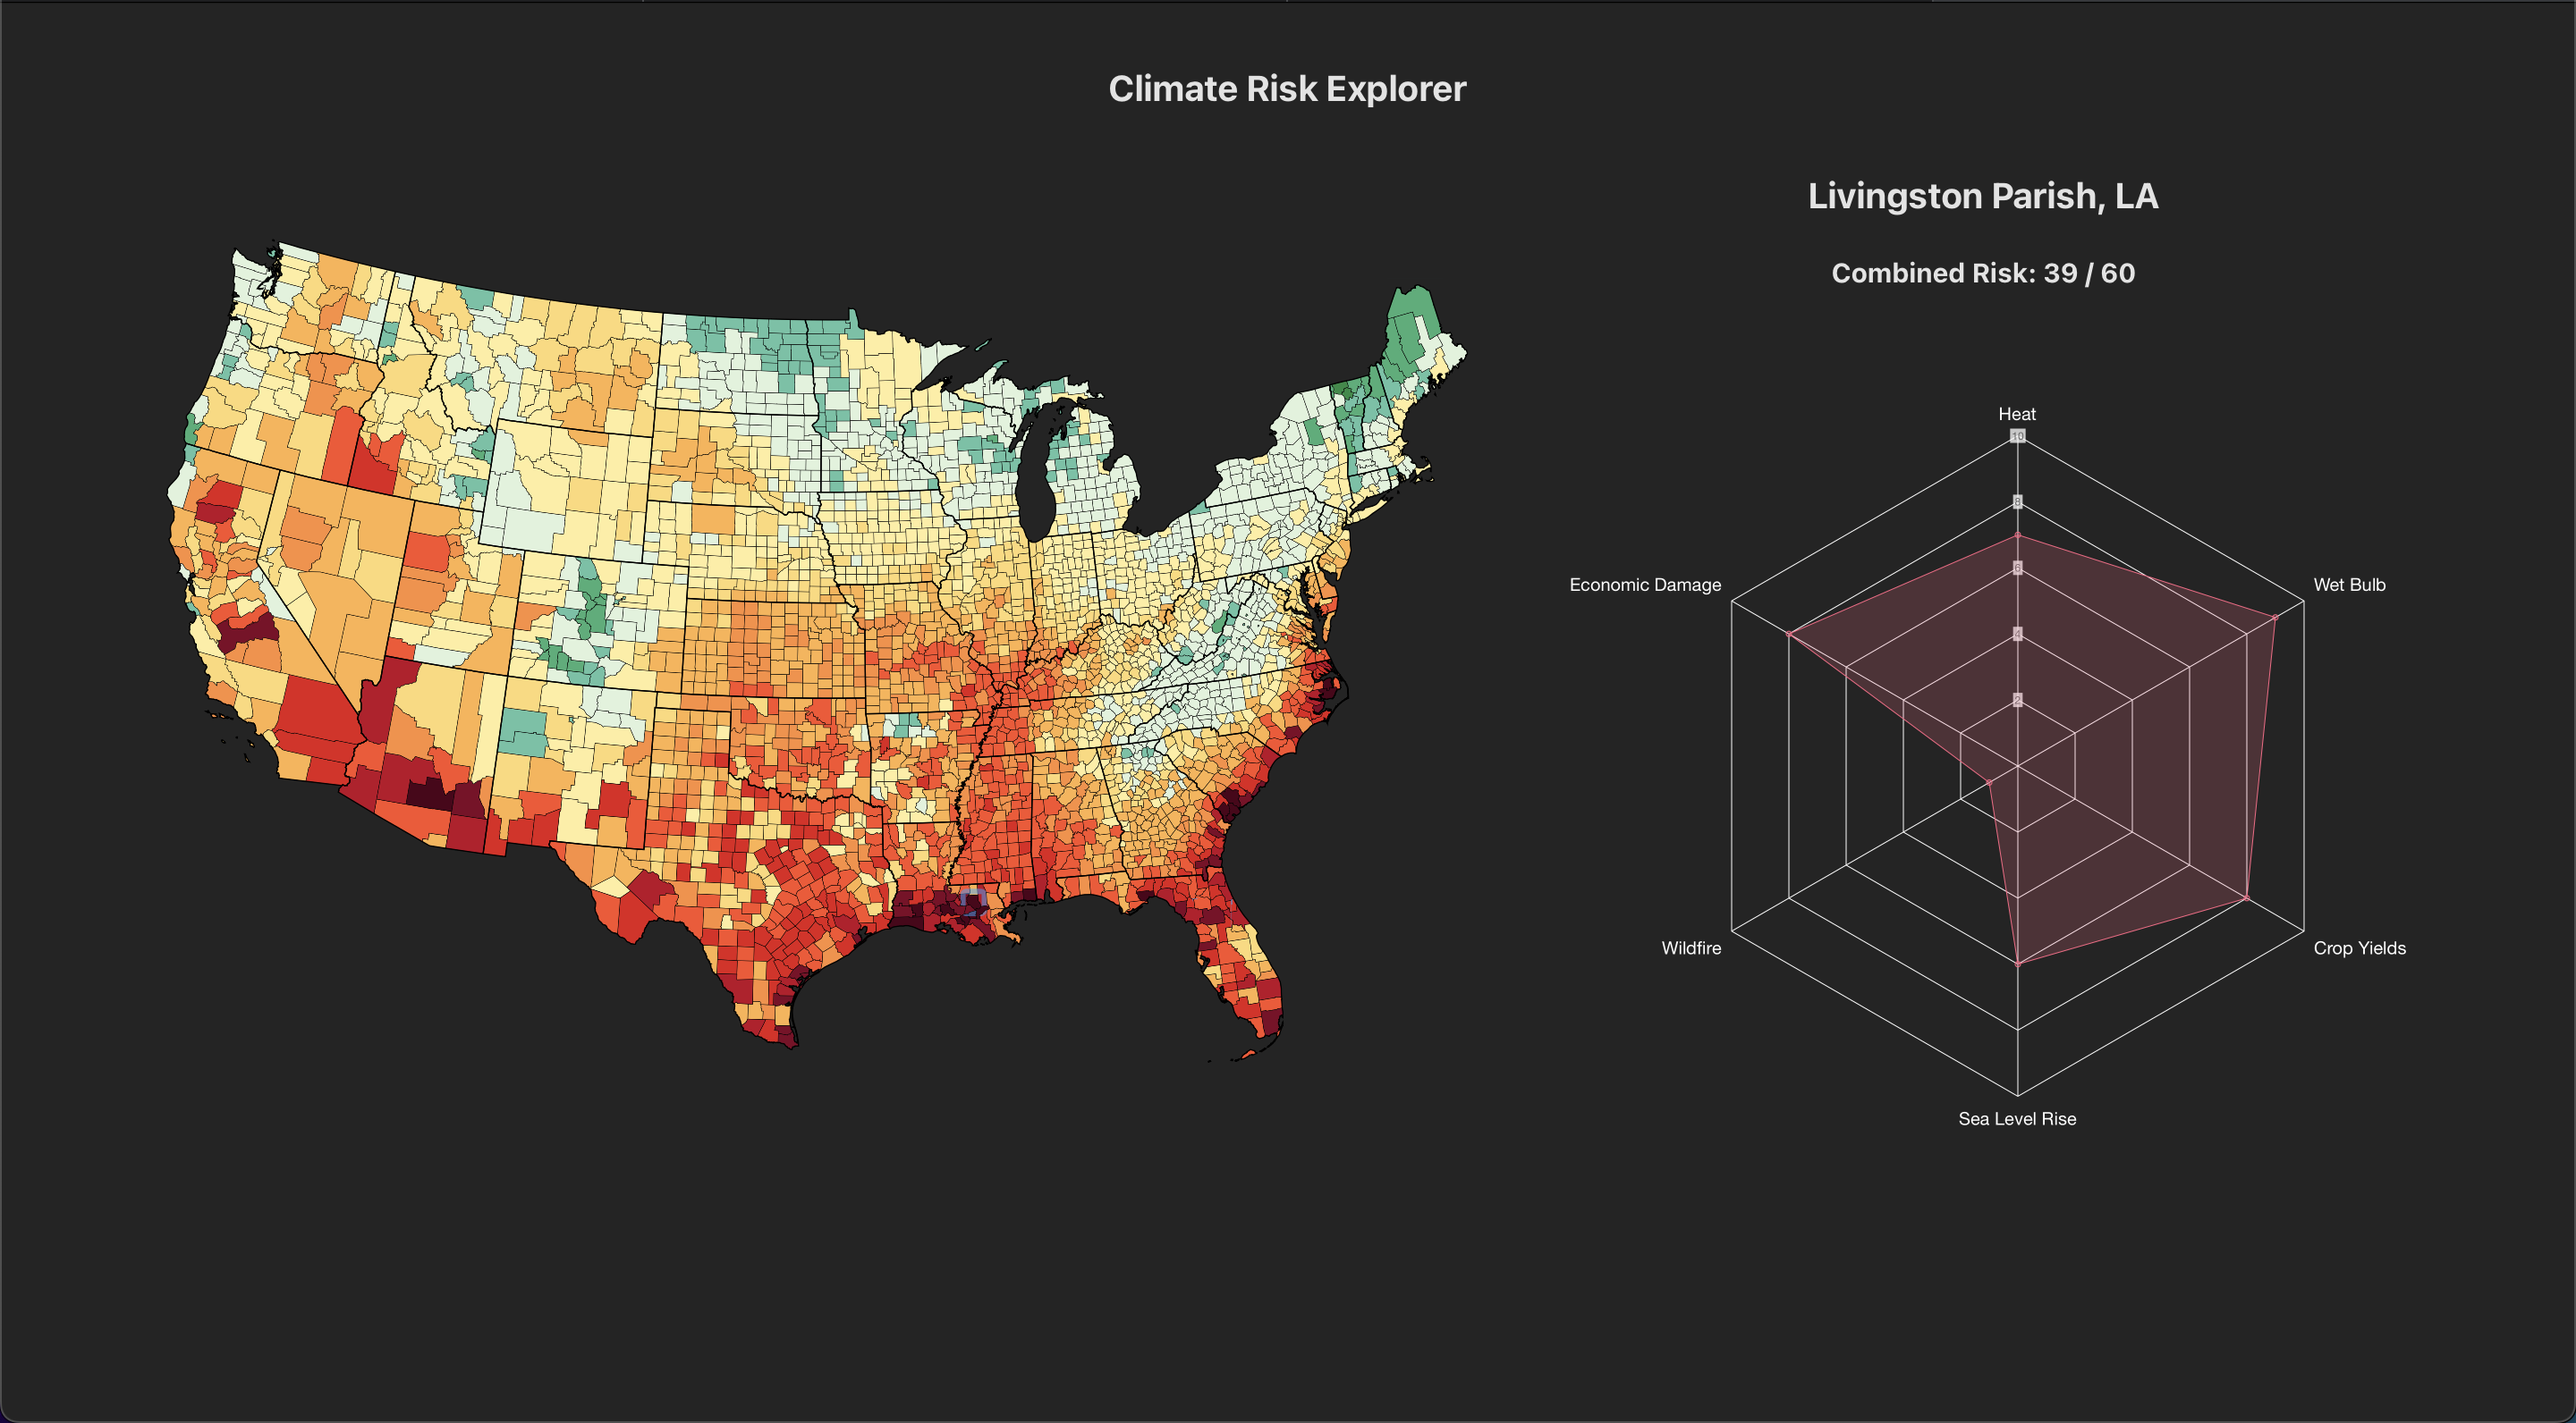
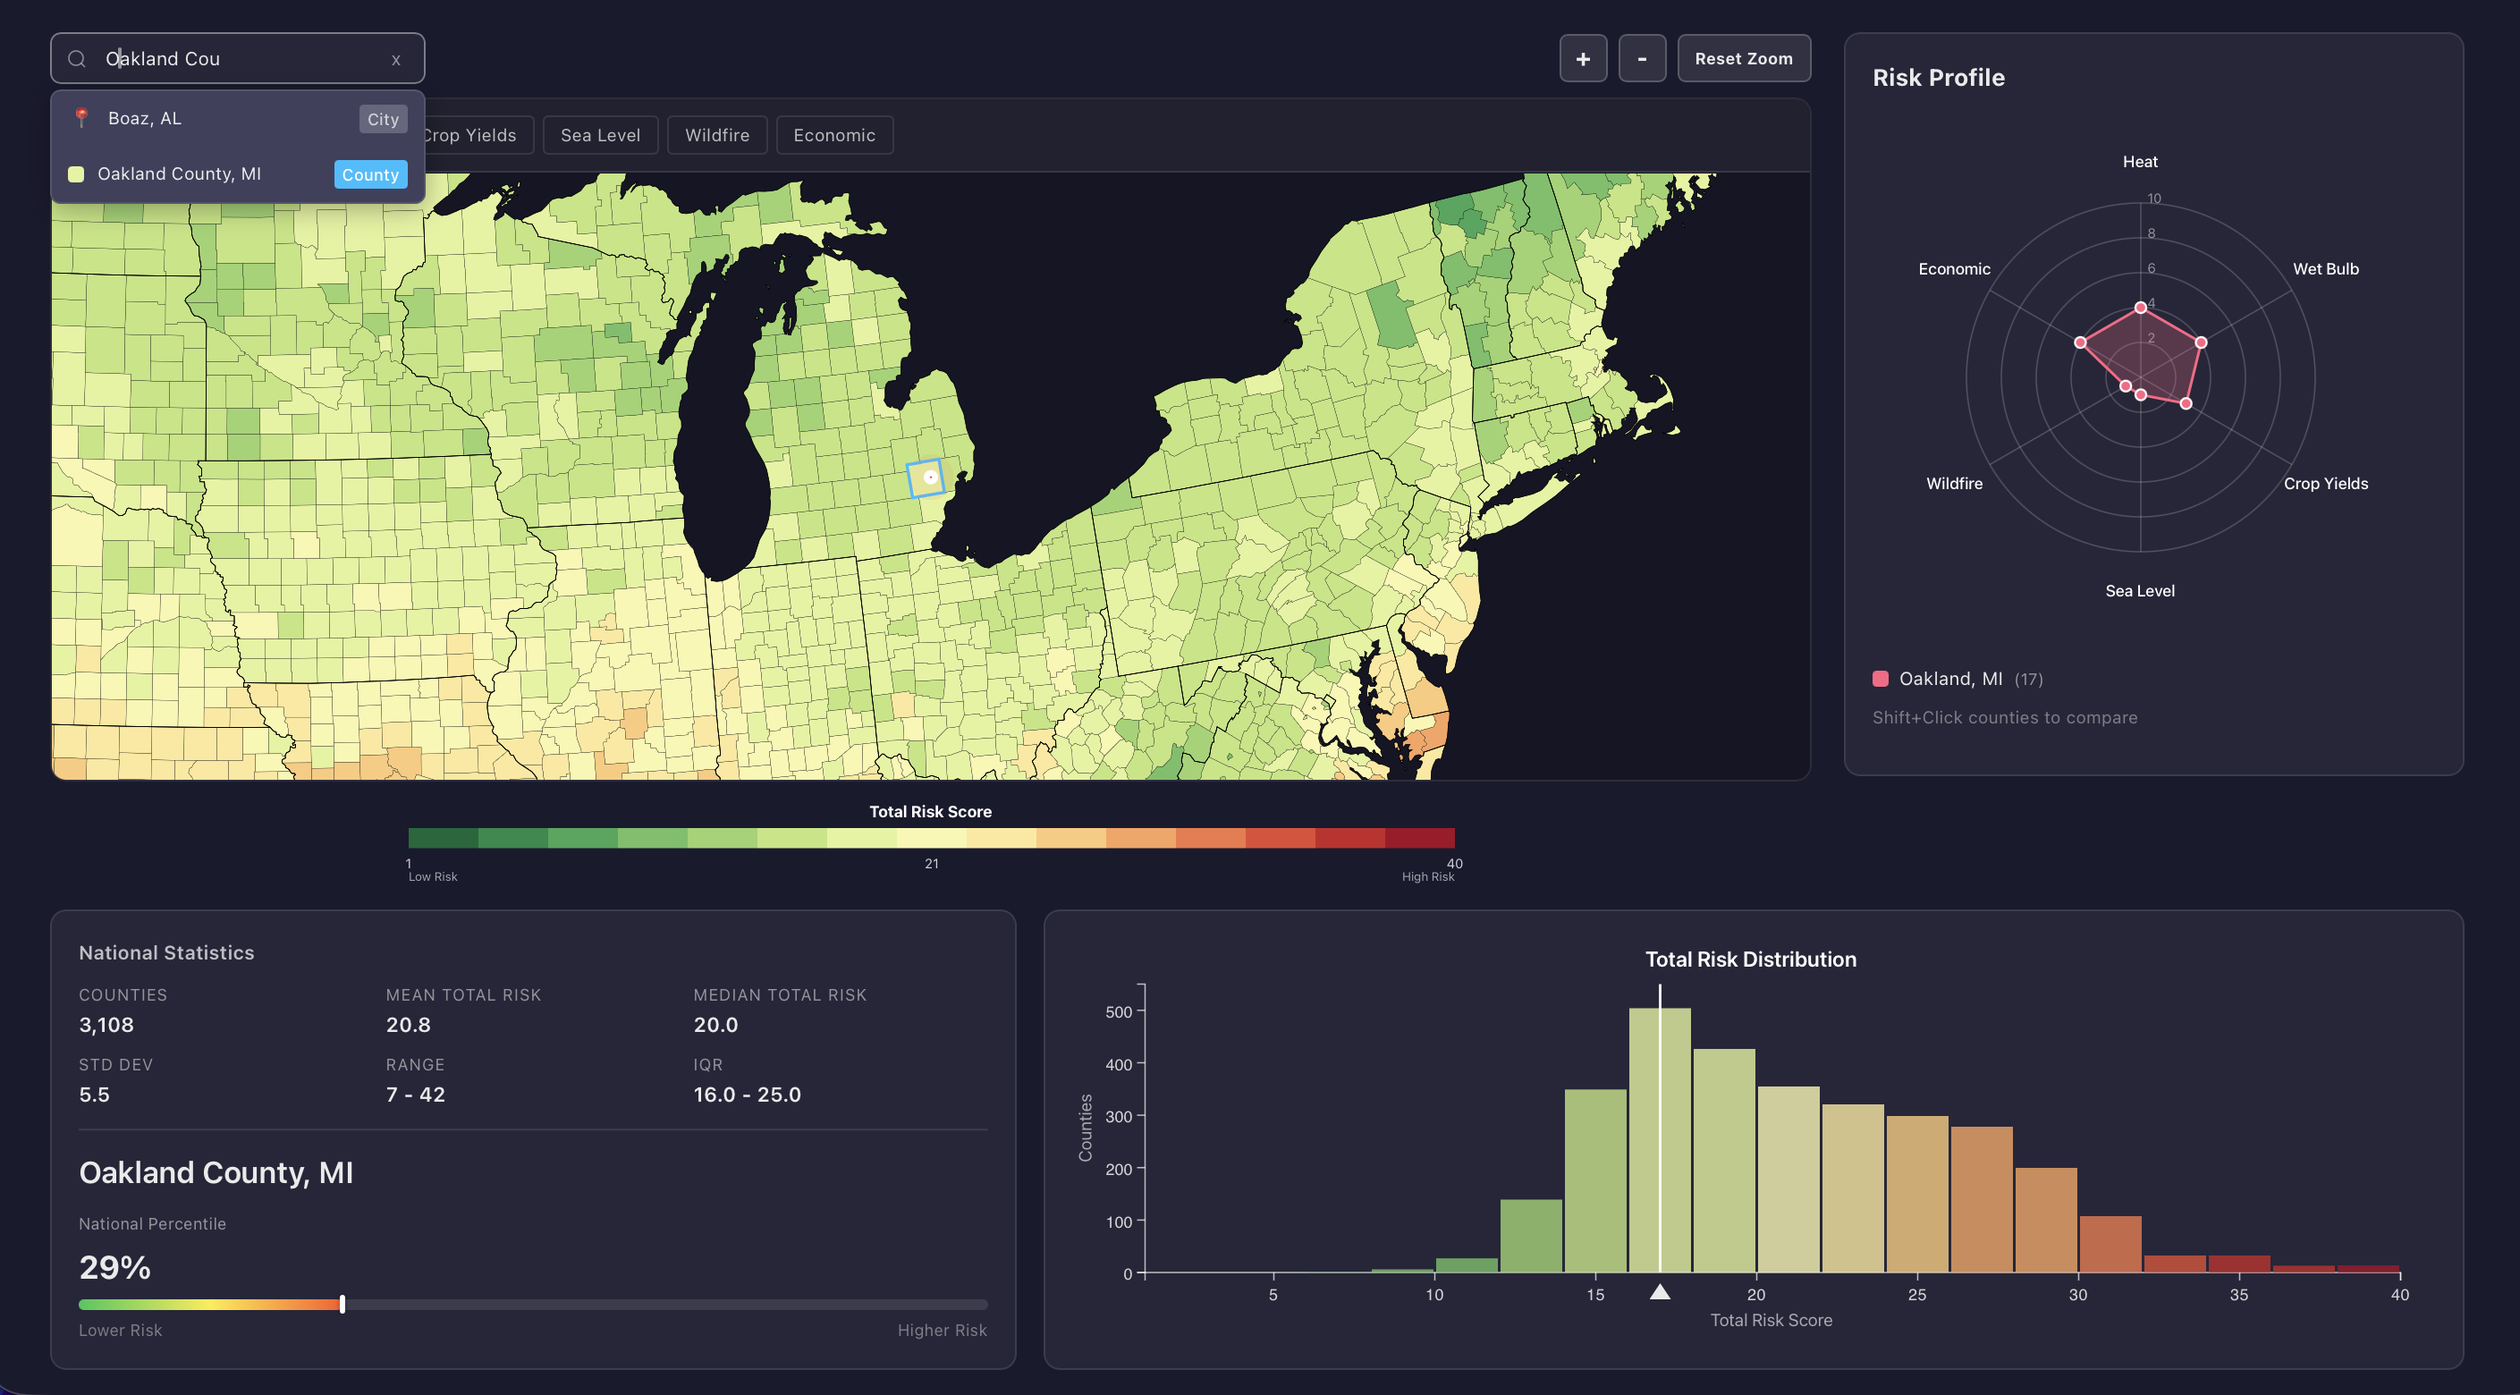
README update

diff --git a/README.md b/README.md
@@ -1,65 +1,24 @@
-# Climate Risk Explorer - U.S. Counties by 2040-2060
+# Climate Risk Explorer
 
-
-## Overview
-
-The Climate Risk Explorer is an interactive web application designed to visualize climate risk data for U.S. counties projected for the years 2040-2060 based on [this paper](https://www.pnas.org/doi/10.1073/pnas.1910114117). The application allows users to explore various climate risk factors and their potential impacts on different regions.
+Interactive visualization of U.S. county-level climate risk projections for 2040-2060, based on [this PNAS paper](https://www.pnas.org/doi/10.1073/pnas.1910114117).
 
 ![Demo Page](public/demo_page.png)
 
+## Risk Factors
 
-The radar plot in the Climate Risk Explorer displays various climate risk factors for each county across the United States. The categories shown in the radar plot include:
+Heat, Wet Bulb, Crop Yields, Sea Level Rise, Wildfire, Economic Damage
 
-- **Heat**: The projected increase in average temperatures and the frequency of extreme heat events.
-- **Wet Bulb**: The combined effect of temperature and humidity, indicating the potential for heat stress.
-- **Crop Yields**: The impact of climate change on agricultural productivity and crop yields.
-- **Sea Level Rise**: The projected rise in sea levels and its impact on coastal areas.
-- **Wildfire**: The increased risk of wildfires due to changing climate conditions.
-- **Economic Damage**: The potential economic impact of climate change, including damage to infrastructure and property.
+## Tech Stack
 
-Each category is represented as a point on the radar plot, allowing users to quickly assess the relative risk levels for different factors in each county.
+React, Vite, D3.js
 
-## Technologies
+## Development
 
-The Climate Risk Explorer is built using:
-
-- **React**: The core framework for building the user interface. The main components are [`App.jsx`](src/App.jsx), [`MapChart.jsx`](src/MapChart.jsx), and [`RadarChart.jsx`](src/RadarChart.jsx).
-- **Vite**: A fast build tool and development server. Configuration can be found in [`vite.config.js`](vite.config.js).
-- **D3.js**: For creating dynamic and interactive data visualizations.
-- **CSS**: Styling is managed with CSS, including [`App.css`](src/App.css) and [`index.css`](src/index.css).
-
-## Development Setup
-
-To set up the development environment, follow these steps:
-
-1. Clone the repository:
-    ```sh
-    git clone <repository-url>
-    ```
-
-2. Navigate to the project directory:
-    ```sh
-    cd climate-risk-explorer
-    ```
-
-3. Install dependencies:
-    ```sh
-    npm install
-    ```
-
-4. Start the development server:
-    ```sh
-    npm run dev
-    ```
-
-5. Open your browser and navigate to `http://localhost:3000` to see the application in action.
+```sh
+npm install
+npm run dev
+```
 
 ## License
 
-This project is licensed under the MIT License. See the [LICENSE](http://_vscodecontentref_/2) file for details.
-
-## Acknowledgements
-
-This project is based on research published [here in PNAS](https://www.pnas.org/doi/10.1073/pnas.1910114117).
-
-For more information, please refer to the project documentation.
+MIT
